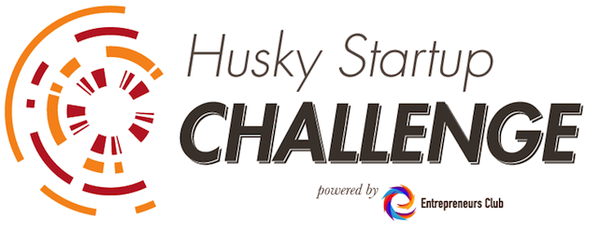
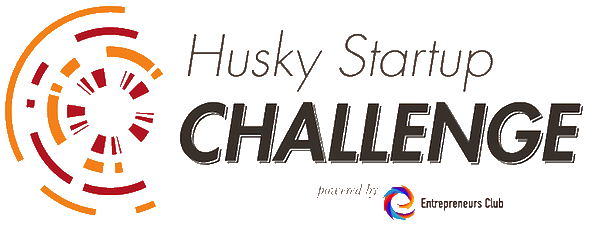
Fixed images that had some white stuff on them

diff --git a/index.html b/index.html
@@ -3,4 +3,4 @@
         m=s.getElementsByTagName(o)[0];a.async=1;a.src=g;m.parentNode.insertBefore(a,m)
       })(window,document,'script','//www.google-analytics.com/analytics.js','ga');
       ga('create', 'UA-41198303-1', 'mattvoska.com');
-      ga('send', 'pageview');</script></head><body data-spy="scroll" data-target=".scroller-spy" data-twttr-rendered="true"><div class="main-wrapper"><section class="headertop needhead" id="header-section"><nav class="nav-top"><div class="navbar navbar-static-top" id="topnavbar"><div class="navbar-inner" id="navbartop"><div class="container"><a class="brand" href="index.html"><span><i class="fa-icon-chevron-right" style="padding-right: 5px"></i>Matt Voska</span> </a><div id="main-nav" class="scroller-spy"><nav class="nav-collapse collapse"><ul class="nav" id="nav"><li class="active"><a href="#header-section">Home</a></li><li><a href="#about-me">About</a></li><li><a href="#team-section">What I Do</a></li><li><a href="#slogan-section-2">Focus</a></li><li><a href="#side-projects">Side Projects</a></li><li><a href="#contact-section">Contact</a></li></ul></nav></div></div></div></div></nav><header class="container"><div class="row-fluid"><div class="wrap-hero"><div class="hero-unit text-center"><div class="logo"><a href="#" title="Matt Voska"><img src="assets/img/mv.png" class="img-rounded img-ds" alt="logo"></a></div><div class="inner-wrap-hero"><h1 class="text-center main-color"><span>Matt Voska</span> <span class="visible-desktop">Entrepreneur | Pilot | Tech Enthusiast</span></h1></div><span class="gobottom" id="nav2"><a href="#about-me" title=""><i class="fa-icon-chevron-down fa-icon-large"></i></a></span></div></div></div></header></section><section id="features-section" class="section-2" style="padding-bottom: 70px; padding-top: 100px"><div class="bg-wraper parallax-point-event"><div class="container" id="about-me" style="padding-top: 70px"><div class="row"><header><div class="text-center page-header"><h3><span class="white"><span class="main-color">ABOUT</span> ME</span></h3></div></header></div></div><div class="container"><div class="row-fluid"><div class="span6"><h3 class="main-color-line">About me</h3><p>I'm an undergrad at <a href="http://neu.edu">Northeastern University</a> in Boston studying computer engineering and entrepreneurship. I'm CEO &amp; Co-Founder of <a href="http://www.flytenow.com">Flytenow</a>, a ride sharing platform for pilots and enthusiasts. At Northeastern I'm involved with the <a href="http://neu.edu/entrepreneurs">NU Entrepreneurs Club</a> where I Directed the <a href="http://neu.edu/entrepreneurs/hsc">Husky Startup Challenge</a>, I'm an active member of <a href="http://www.ieee.neu.edu">IEEE</a>, <a href="http://arnold-air.org/sw">Silver Wings</a>, and <a href="http://gocivilairpatrol.com">Civil Air Patrol</a>. I'm engaged with the entrepreneurial community of Boston and try to attend as many workshops and startup events as I can.</p><h3 class="main-color-line">My vision</h3><p>I strive to advance aviation through new technologies, making it not only accessible to everyone, but as a viable and sustainable means of transportation.</p><h3 class="main-color-line">Prior Ventures</h3><p>I started my first company, <a href="http://voskaelectronics.com">Voska Electronics</a>, in 2005, servicing my town with affordable IT support that they could trust. In 2011, I co-founded <a href="http://gigastormdevelopers.com">GigaStorm</a>: a mobile application and website development firm with <a href="http://me.avp42.com">Aakash Patel</a> and <a href="http://mass.gigastormdevelopers.com">Andrew Mass</a>, we've since taken our skills learned at GigaStorm and are applying them to <a href="http://flytenow.com">Flytenow</a> with Alan Guichard as of August 2013.</p><div id="press-container"><h3 class="main-color-line">Press</h3><a href="http://www.bostonglobe.com/business/2013/12/22/sharing-economy-next-challenge-private-jets-for-non-millionaires/ptZNcufoDsRuKmOB3aXWkL/story.html"><h4><span class="press">Boston Globe <span class="press-text">- Can Boston get plane-sharing off the ground?</span></span></h4></a> <a href="http://bostinno.streetwise.co/2013/04/09/2013-northeastern-husky-startup-challenge-photos-and-recap/"><h4><span class="press">BostInno <span class="press-text">- Northeastern Shows Off It's "Secret Sauce," Awarding Nearly $5K to New Student Ventures</span></span></h4></a> <a href="http://www.northeastern.edu/news/2013/04/demo-day/"><h4><span class="press">News@Northeastern<span class="press-text">- A First Foray Into Entrepreneurship</span></span></h4></a> <a href="http://www.chicagonow.com/publius-forum/2011/12/rep-walsh-announces-service-academy-nominations/"><h4><span class="press">Chicago Now<span class="press-text">- Representative Walsh Announces Service Academy Nominations</span></span></h4></a></div></div><div class="span3" style="margin-left: 17%"><div class="thumbnail" style="padding: 10px"><div class="sample project-item-image-container"><img src="assets/img/about-me.png" alt="Matt Voska"></div><div class="transit-to-top"><div class="widget_nav_menu"><ul class="social-bottom"><li><span class="badge badge-warning"><a href="http://facebook.com/voska" title="Matt Voska's Facebook"><i class="fa-icon-facebook"></i></a></span></li><li><span class="badge badge-warning"><a href="http://twitter.com/mattvoska" title="Matt Voska's Twitter"><i class="fa-icon-twitter"></i></a></span></li><li><span class="badge badge-warning"><a href="http://plus.google.com/+MattVoska" title="Matt Voska's Google Plus"><i class="fa-icon-google-plus"></i></a></span></li><li><span class="badge badge-warning"><a href="http://linkedin.com/in/voska" title="Matt Voska's Linked In"><i class="fa-icon-linkedin"></i></a></span></li></ul></div></div></div></div></div></div></div></section><section class="container" id="team-section" style="padding-top: 70px; padding-bottom: 140px"><div class="container"><div class="row-fluid"><header><div class="text-center page-header"><h3><span class="white">WHAT I <span class="main-color">DO</span></span></h3></div></header></div></div><div class="container"><div class="row-fluid"><div class="span3"><span class="label label-warning lines-bg-color text-center"><i class="fa-icon-lightbulb fa-icon-large"></i></span><h4 class="features-title"><span class="main-color">Entrepreneur</span>ship</h4><p>As a startup CEO, a board member for the <a href="http://neu.edu/entrepreneurs">NU Entrepreneurs Club</a>, and an <a href="http://neu.edu/idea">IDEA</a> Coach, I live and breathe startups. I'm always up for bouncing ideas off one another over some burritos</p></div><div class="span3"><span class="label label-warning lines-bg-color text-center"><i class="fa-icon-off fa-icon-large"></i></span><h4 class="features-title"><span class="main-color">Computer</span> Engineering</h4><p>At <a href="http://neu.edu">Northeastern University</a>, I am a computer engineering major and a tech enthusiast. I closely follow the tech market and am fascinated by new hardware and software breakthroughs.</p></div><div class="span3"><span class="label label-warning lines-bg-color text-center"><i class="fa-icon-plane fa-icon-large"></i></span><h4 class="features-title"><span class="main-color">Fly</span> Planes</h4><p>I obtained my private pilot license (Airplane Single Engine Land) in September of 2011 and have logged 85+ hours since, flying C-152, C-172, PA-28, and an <a href="http://www.youtube.com/watch?v=m8Rwt2KcW0U">EA300L</a> at <a href="http://airnav.com/airport/5K6">5K6</a> and <a href="http://airnav.com/airport/BED">BED</a>.</p></div><div class="span3"><span class="label label-warning lines-bg-color text-center"><i class="fa-icon-group fa-icon-large"></i></span><h4 class="features-title"><span class="main-color">Leadership</span> Development</h4><p>The ability to persuade and motivate people has alway sparked my interest and I strive to improve my leadership through <a href="http://gocivilairpatrol.com">Civil Air Patrol</a>, <a href="http://bu.edu/af-rotc">Air Force ROTC</a>, and <a href="http://arnold-air.org/sw">Silver Wings</a>.</p></div></div></div></section><section class="section-3" id="slogan-section-2"><div class="bg parallax-point-event" style="background-size: 100% 100%"><div class="container"><div class="row-fluid"><div class="span12 text-center"><div class="featured-badge orange" style="margin-top: 15px">CURRENT FOCUS</div></div></div><div class="browser-shot-1"><a href="http://www.gigastormdevelopers.com"><img src="assets/img/flytenow-logo-mv.png" alt="GigaStorm"></a></div><div class="browser-shot-2"><a href="http://www.carbonite.com"><img src="assets/img/carbonite.png" alt="Carbonite"></a></div><div class="browser-shot-3"><a href="http://www.neu.edu/entrepreneurs/hsc"><img src="assets/img/hsc.png" alt="Husky Startup Challenge"></a></div></div></div></section><section class="container" id="side-projects" style="margin-top: 70px; padding-top: 70px; margin-bottom: -40px"><div class="row"><header><div class="span12 text-center page-header"><h3><span class="white">SIDE <span class="main-color">PROJECTS</span></span></h3></div></header></div><div class="row"><div class="span6 project-item graphics box"><div class="thumbnail text-center"><a href="http://voskaelectronics.com" title="Voske Electronics"><img class="side-project-img" src="assets/img/velogo.png" alt="Voska Electronics Logo"></a>  <div class="caption"><h4><a href="http://voskaelectronics.com">Voska Electronics</a></h4><p class="caption-descr">Founding Voska Electronics in 2005, it has grown from just a neighborhood business to providing tech support, consulting, and systems engineering services to homes and businesses in the greater Chicagoland and Metro Boston areas.</p></div></div></div><div class="span6 project-item graphics box"><div class="thumbnail text-center"><a href="http://facebook.com/SijanChapter" title="Silver Wings-Sijan Chapter"><img class="side-project-img" src="assets/img/sw.png" alt="Silver Wings Logo"></a>  <div class="caption"><h4><a href="http://arnold-air.org/sw">Silver Wings</a></h4><p class="caption-descr">I wanted to continue with the values instilled upon me in <a href="http://afrotc.com">Air Force ROTC</a>, so I co-founded a Silver Wings Chapter with Giulia Ciaghi at <a href="http://bu.edu/af-rotc">AFROTC Detachment 355</a> to support the community and to help grow civilian and cadet leaders.</p></div></div></div></div></section><footer class="footer"><section id="contact-section" class="arrow_box"><div class="container"><div class="row-fluid"><div id="foot-head"><div class="span12 text-center page-header"><h3><span class="white"><span class="main-color">CONTACT</span> ME</span></h3></div></div></div><div class="row-fluid"><div class="span3"><h4 class="main-color-line text-center"><i class="fa-icon-share main-color"></i> <span>Follow me</span></h4><ul class="social-bottom"><li><span class="badge badge-warning"><a href="http://facebook.com/voska" title=""><i class="fa-icon-facebook"></i></a></span></li><li><span class="badge badge-warning"><a href="http://twitter.com/mattvoska" title=""><i class="fa-icon-twitter"></i></a></span></li><li><span class="badge badge-warning"><a href="http://plus.google.com/+MattVoska" title=""><i class="fa-icon-google-plus"></i></a></span></li><li><span class="badge badge-warning"><a href="http://linkedin.com/in/voska" title=""><i class="fa-icon-linkedin"></i></a></span></li></ul><h4 class="main-color-line"><i class="fa-icon-star main-color"></i> <span>Employers</span></h4><p><a class="btn btn-warning" href="assets/resume/matt_voska_resume.pdf">Download my resume</a></p></div><div class="span6"><div class="logo"><img src="assets/img/mv.png" class="img-rounded" alt="Matt Voska"></div><hr><address><strong>MATT VOSKA</strong><br><a href="mailto:mattvoska@gmail.com" class="hoverfix hoverfixed"><i class="fa-icon-envelope"></i> mattvoska@gmail.com</a><br></address></div><div class="span3"><h4 class="main-color-line"><i class="fa-icon-twitter main-color"></i> <span>Twitter feed</span></h4><div id="tweets"><a class="twitter-timeline" href="https://twitter.com/mattvoska" data-widget-id="345316754060374016"></a><script>!function(d,s,id){var js,fjs=d.getElementsByTagName(s)[0],p=/^http:/.test(d.location)?'http':'https';if(!d.getElementById(id)){js=d.createElement(s);js.id=id;js.src=p+"://platform.twitter.com/widgets.js";fjs.parentNode.insertBefore(js,fjs);}}(document,"script","twitter-wjs");</script></div></div></div></div></section></footer></div><script src="assets/js/all.min.js" type="text/javascript"></script></body></html>
+      ga('send', 'pageview');</script></head><body data-spy="scroll" data-target=".scroller-spy" data-twttr-rendered="true"><div class="main-wrapper"><section class="headertop needhead" id="header-section"><nav class="nav-top"><div class="navbar navbar-static-top" id="topnavbar"><div class="navbar-inner" id="navbartop"><div class="container"><a class="brand" href="index.html"><span><i class="fa-icon-chevron-right" style="padding-right: 5px"></i>Matt Voska</span> </a><div id="main-nav" class="scroller-spy"><nav class="nav-collapse collapse"><ul class="nav" id="nav"><li class="active"><a href="#header-section">Home</a></li><li><a href="#about-me">About</a></li><li><a href="#team-section">What I Do</a></li><li><a href="#slogan-section-2">Focus</a></li><li><a href="#side-projects">Side Projects</a></li><li><a href="#contact-section">Contact</a></li></ul></nav></div></div></div></div></nav><header class="container"><div class="row-fluid"><div class="wrap-hero"><div class="hero-unit text-center"><div class="logo"><a href="#" title="Matt Voska"><img src="assets/img/mv.png" class="img-rounded img-ds" alt="logo"></a></div><div class="inner-wrap-hero"><h1 class="text-center main-color"><span>Matt Voska</span> <span class="visible-desktop">Entrepreneur | Pilot | Tech Enthusiast</span></h1></div><span class="gobottom" id="nav2"><a href="#about-me" title=""><i class="fa-icon-chevron-down fa-icon-large"></i></a></span></div></div></div></header></section><section id="features-section" class="section-2" style="padding-bottom: 70px; padding-top: 100px"><div class="bg-wraper parallax-point-event"><div class="container" id="about-me" style="padding-top: 70px"><div class="row"><header><div class="text-center page-header"><h3><span class="white"><span class="main-color">ABOUT</span> ME</span></h3></div></header></div></div><div class="container"><div class="row-fluid"><div class="span6"><h3 class="main-color-line">About me</h3><p>I'm an undergrad at <a href="http://neu.edu">Northeastern University</a> in Boston studying computer engineering and entrepreneurship. I'm CEO &amp; Co-Founder of <a href="http://www.flytenow.com">Flytenow</a>, a ride sharing platform for pilots and enthusiasts. At Northeastern I'm involved with the <a href="http://neu.edu/entrepreneurs">NU Entrepreneurs Club</a> where I Directed the <a href="http://neu.edu/entrepreneurs/hsc">Husky Startup Challenge</a>, I'm an active member of <a href="http://www.ieee.neu.edu">IEEE</a>, <a href="http://arnold-air.org/sw">Silver Wings</a>, and <a href="http://gocivilairpatrol.com">Civil Air Patrol</a>. I'm engaged with the entrepreneurial community of Boston and try to attend as many workshops and startup events as I can.<br>I strive to advance aviation through new technologies, making it not only accessible to everyone, but as a viable and sustainable means of transportation.</p><h3 class="main-color-line">Prior Ventures</h3><p>I started my first company, <a href="http://voskaelectronics.com">Voska Electronics</a>, in 2005, servicing my town with affordable IT support that they could trust. In 2011, I co-founded <a href="http://gigastormdevelopers.com">GigaStorm</a>: a mobile application and website development firm with <a href="http://me.avp42.com">Aakash Patel</a> and <a href="http://mass.gigastormdevelopers.com">Andrew Mass</a>, we've since taken our skills learned at GigaStorm and are applying them to <a href="http://flytenow.com">Flytenow</a> with Alan Guichard as of August 2013.</p><div id="press-container"><h3 class="main-color-line">Press</h3><a href="http://www.bostonglobe.com/business/2013/12/22/sharing-economy-next-challenge-private-jets-for-non-millionaires/ptZNcufoDsRuKmOB3aXWkL/story.html"><h4><span class="press">Boston Globe <span class="press-text">- Can Boston get plane-sharing off the ground?</span></span></h4></a> <a href="http://bostinno.streetwise.co/2013/04/09/2013-northeastern-husky-startup-challenge-photos-and-recap/"><h4><span class="press">BostInno <span class="press-text">- Northeastern Shows Off It's "Secret Sauce," Awarding Nearly $5K to New Student Ventures</span></span></h4></a> <a href="http://www.northeastern.edu/news/2013/04/demo-day/"><h4><span class="press">News@Northeastern<span class="press-text">- A First Foray Into Entrepreneurship</span></span></h4></a> <a href="http://www.chicagonow.com/publius-forum/2011/12/rep-walsh-announces-service-academy-nominations/"><h4><span class="press">Chicago Now<span class="press-text">- Representative Walsh Announces Service Academy Nominations</span></span></h4></a></div></div><div class="span3" style="margin-left: 17%"><div class="thumbnail" style="padding: 10px"><div class="sample project-item-image-container"><img src="assets/img/about-me.png" alt="Matt Voska"></div><div class="transit-to-top"><div class="widget_nav_menu"><ul class="social-bottom"><li><span class="badge badge-warning"><a href="http://facebook.com/voska" title="Matt Voska's Facebook"><i class="fa-icon-facebook"></i></a></span></li><li><span class="badge badge-warning"><a href="http://twitter.com/mattvoska" title="Matt Voska's Twitter"><i class="fa-icon-twitter"></i></a></span></li><li><span class="badge badge-warning"><a href="http://plus.google.com/+MattVoska" title="Matt Voska's Google Plus"><i class="fa-icon-google-plus"></i></a></span></li><li><span class="badge badge-warning"><a href="http://linkedin.com/in/voska" title="Matt Voska's Linked In"><i class="fa-icon-linkedin"></i></a></span></li></ul></div></div></div></div></div></div></div></section><section class="container" id="team-section" style="padding-top: 70px; padding-bottom: 140px"><div class="container"><div class="row-fluid"><header><div class="text-center page-header"><h3><span class="white">WHAT I <span class="main-color">DO</span></span></h3></div></header></div></div><div class="container"><div class="row-fluid"><div class="span3"><span class="label label-warning lines-bg-color text-center"><i class="fa-icon-lightbulb fa-icon-large"></i></span><h4 class="features-title"><span class="main-color">Entrepreneur</span>ship</h4><p>As a startup CEO, a board member for the <a href="http://neu.edu/entrepreneurs">NU Entrepreneurs Club</a>, and an <a href="http://neu.edu/idea">IDEA</a> Coach, I live and breathe startups. I'm always up for bouncing ideas off one another over some burritos</p></div><div class="span3"><span class="label label-warning lines-bg-color text-center"><i class="fa-icon-off fa-icon-large"></i></span><h4 class="features-title"><span class="main-color">Computer</span> Engineering</h4><p>At <a href="http://neu.edu">Northeastern University</a>, I am a computer engineering major and a tech enthusiast. I closely follow the tech market and am fascinated by new hardware and software breakthroughs.</p></div><div class="span3"><span class="label label-warning lines-bg-color text-center"><i class="fa-icon-plane fa-icon-large"></i></span><h4 class="features-title"><span class="main-color">Fly</span> Planes</h4><p>I obtained my private pilot license (Airplane Single Engine Land) in September of 2011 and have logged 85+ hours since, flying C-152, C-172, PA-28, and an <a href="http://www.youtube.com/watch?v=m8Rwt2KcW0U">EA300L</a> at <a href="http://airnav.com/airport/5K6">5K6</a> and <a href="http://airnav.com/airport/BED">BED</a>.</p></div><div class="span3"><span class="label label-warning lines-bg-color text-center"><i class="fa-icon-group fa-icon-large"></i></span><h4 class="features-title"><span class="main-color">Leadership</span> Development</h4><p>The ability to persuade and motivate people has alway sparked my interest and I strive to improve my leadership through <a href="http://gocivilairpatrol.com">Civil Air Patrol</a>, <a href="http://bu.edu/af-rotc">Air Force ROTC</a>, and <a href="http://arnold-air.org/sw">Silver Wings</a>.</p></div></div></div></section><section class="section-3" id="slogan-section-2"><div class="bg parallax-point-event" style="background-size: 100% 100%"><div class="container"><div class="row-fluid"><div class="span12 text-center"><div class="featured-badge orange" style="margin-top: 15px">CURRENT FOCUS</div></div></div><div class="browser-shot-1"><a href="http://www.gigastormdevelopers.com"><img src="assets/img/flytenow-logo-mv.png" alt="GigaStorm"></a></div><div class="browser-shot-2"><a href="http://www.carbonite.com"><img src="assets/img/carbonite.png" alt="Carbonite"></a></div><div class="browser-shot-3"><a href="http://www.neu.edu/entrepreneurs/hsc"><img src="assets/img/hsc.png" alt="Husky Startup Challenge"></a></div></div></div></section><section class="container" id="side-projects" style="margin-top: 70px; padding-top: 70px; margin-bottom: -40px"><div class="row"><header><div class="span12 text-center page-header"><h3><span class="white">SIDE <span class="main-color">PROJECTS</span></span></h3></div></header></div><div class="row"><div class="span6 project-item graphics box"><div class="thumbnail text-center"><a href="http://voskaelectronics.com" title="Voske Electronics"><img class="side-project-img" src="assets/img/velogo.png" alt="Voska Electronics Logo"></a>  <div class="caption"><h4><a href="http://voskaelectronics.com">Voska Electronics</a></h4><p class="caption-descr">Founding Voska Electronics in 2005, it has grown from just a neighborhood business to providing tech support, consulting, and systems engineering services to homes and businesses in the greater Chicagoland and Metro Boston areas.</p></div></div></div><div class="span6 project-item graphics box"><div class="thumbnail text-center"><a href="http://facebook.com/SijanChapter" title="Silver Wings-Sijan Chapter"><img class="side-project-img" src="assets/img/sw.png" alt="Silver Wings Logo"></a>  <div class="caption"><h4><a href="http://arnold-air.org/sw">Silver Wings</a></h4><p class="caption-descr">I wanted to continue with the values instilled upon me in <a href="http://afrotc.com">Air Force ROTC</a>, so I co-founded a Silver Wings Chapter with Giulia Ciaghi at <a href="http://bu.edu/af-rotc">AFROTC Detachment 355</a> to support the community and to help grow civilian and cadet leaders.</p></div></div></div></div></section><footer class="footer"><section id="contact-section" class="arrow_box"><div class="container"><div class="row-fluid"><div id="foot-head"><div class="span12 text-center page-header"><h3><span class="white"><span class="main-color">CONTACT</span> ME</span></h3></div></div></div><div class="row-fluid"><div class="span3"><h4 class="main-color-line text-center"><i class="fa-icon-share main-color"></i> <span>Follow me</span></h4><ul class="social-bottom"><li><span class="badge badge-warning"><a href="http://facebook.com/voska" title=""><i class="fa-icon-facebook"></i></a></span></li><li><span class="badge badge-warning"><a href="http://twitter.com/mattvoska" title=""><i class="fa-icon-twitter"></i></a></span></li><li><span class="badge badge-warning"><a href="http://plus.google.com/+MattVoska" title=""><i class="fa-icon-google-plus"></i></a></span></li><li><span class="badge badge-warning"><a href="http://linkedin.com/in/voska" title=""><i class="fa-icon-linkedin"></i></a></span></li></ul><h4 class="main-color-line"><i class="fa-icon-star main-color"></i> <span>Employers</span></h4><p><a class="btn btn-warning" href="assets/resume/matt_voska_resume.pdf">Download my resume</a></p></div><div class="span6"><div class="logo"><img src="assets/img/mv.png" class="img-rounded" alt="Matt Voska"></div><hr><address><strong>MATT VOSKA</strong><br><a href="mailto:mattvoska@gmail.com" class="hoverfix hoverfixed"><i class="fa-icon-envelope"></i> mattvoska@gmail.com</a><br></address></div><div class="span3"><h4 class="main-color-line"><i class="fa-icon-twitter main-color"></i> <span>Twitter feed</span></h4><div id="tweets"><a class="twitter-timeline" href="https://twitter.com/mattvoska" data-widget-id="345316754060374016"></a><script>!function(d,s,id){var js,fjs=d.getElementsByTagName(s)[0],p=/^http:/.test(d.location)?'http':'https';if(!d.getElementById(id)){js=d.createElement(s);js.id=id;js.src=p+"://platform.twitter.com/widgets.js";fjs.parentNode.insertBefore(js,fjs);}}(document,"script","twitter-wjs");</script></div></div></div></div></section></footer></div><script src="assets/js/all.min.js" type="text/javascript"></script></body></html>

diff --git a/templates/index.html b/templates/index.html
@@ -126,11 +126,7 @@
 
                 <h3 class="main-color-line">About me</h3>
                 <p>
-                  I'm an undergrad at <a href="http://neu.edu">Northeastern University</a> in Boston studying computer engineering and entrepreneurship. I'm CEO &amp; Co-Founder of <a href="http://www.flytenow.com">Flytenow</a>, a ride sharing platform for pilots and enthusiasts. At Northeastern I'm involved with the <a href="http://neu.edu/entrepreneurs">NU Entrepreneurs Club</a> where I Directed the <a href="http://neu.edu/entrepreneurs/hsc">Husky Startup Challenge</a>, I'm an active member of <a href="http://www.ieee.neu.edu">IEEE</a>, <a href="http://arnold-air.org/sw">Silver Wings</a>, and <a href="http://gocivilairpatrol.com">Civil Air Patrol</a>. I'm engaged with the entrepreneurial community of Boston and try to attend as many workshops and startup events as I can.
-                </p>
-
-                <h3 class="main-color-line">My vision</h3>
-                <p>
+                  I'm an undergrad at <a href="http://neu.edu">Northeastern University</a> in Boston studying computer engineering and entrepreneurship. I'm CEO &amp; Co-Founder of <a href="http://www.flytenow.com">Flytenow</a>, a ride sharing platform for pilots and enthusiasts. At Northeastern I'm involved with the <a href="http://neu.edu/entrepreneurs">NU Entrepreneurs Club</a> where I Directed the <a href="http://neu.edu/entrepreneurs/hsc">Husky Startup Challenge</a>, I'm an active member of <a href="http://www.ieee.neu.edu">IEEE</a>, <a href="http://arnold-air.org/sw">Silver Wings</a>, and <a href="http://gocivilairpatrol.com">Civil Air Patrol</a>. I'm engaged with the entrepreneurial community of Boston and try to attend as many workshops and startup events as I can. <br>
                   I strive to advance aviation through new technologies, making it not only accessible to everyone, but as a viable and sustainable means of transportation.
                 </p>
 
